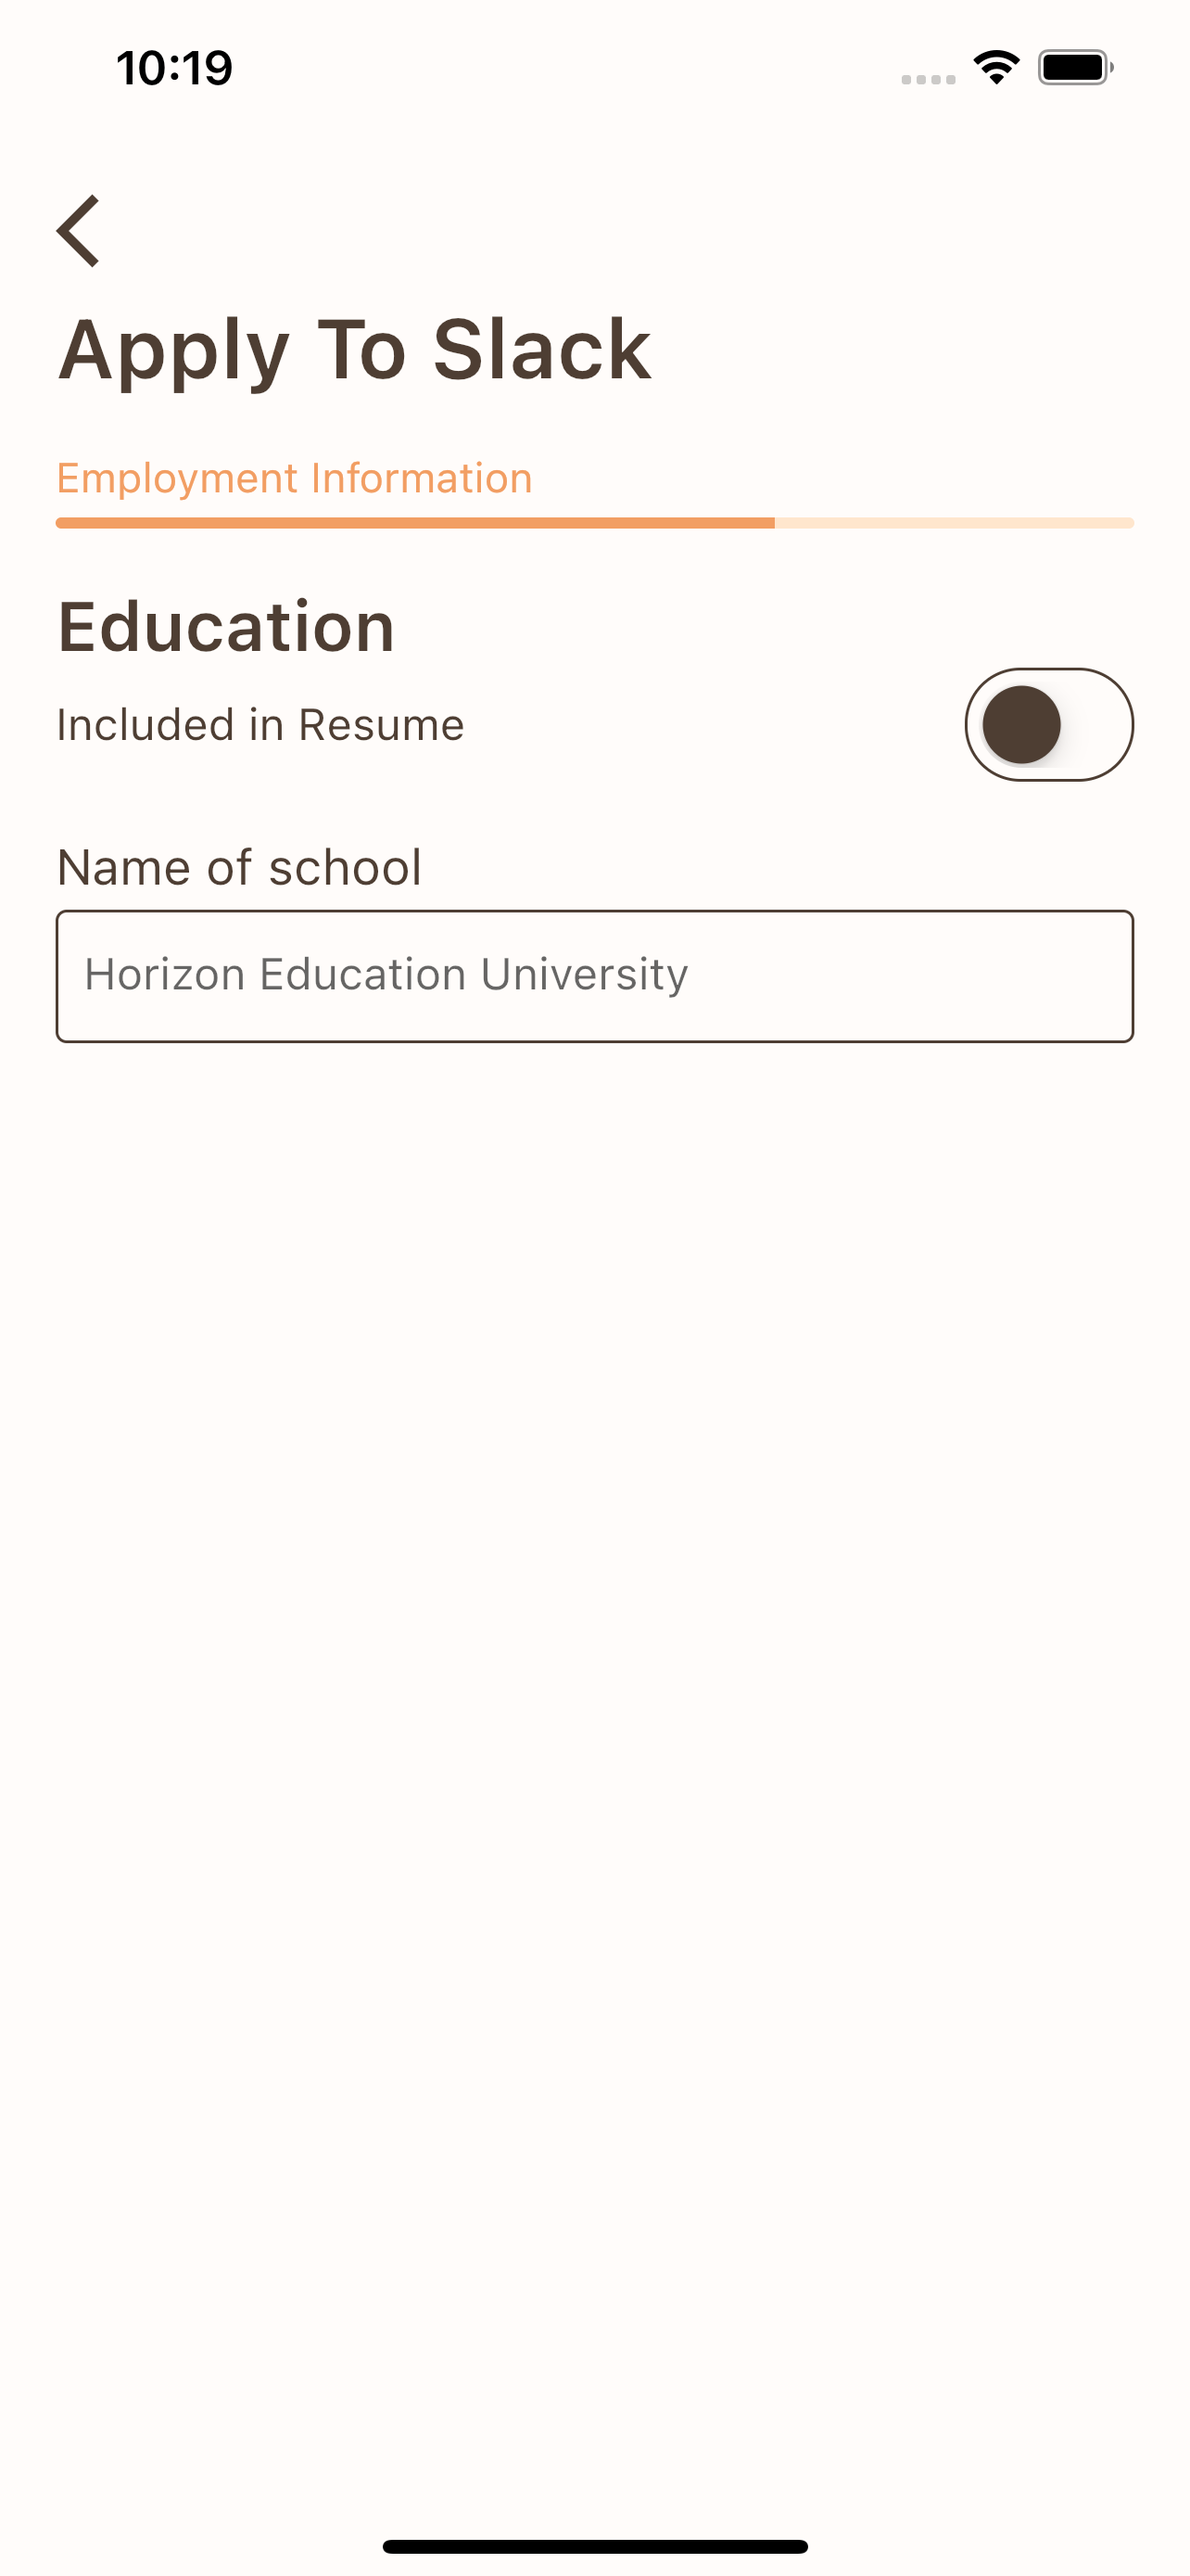
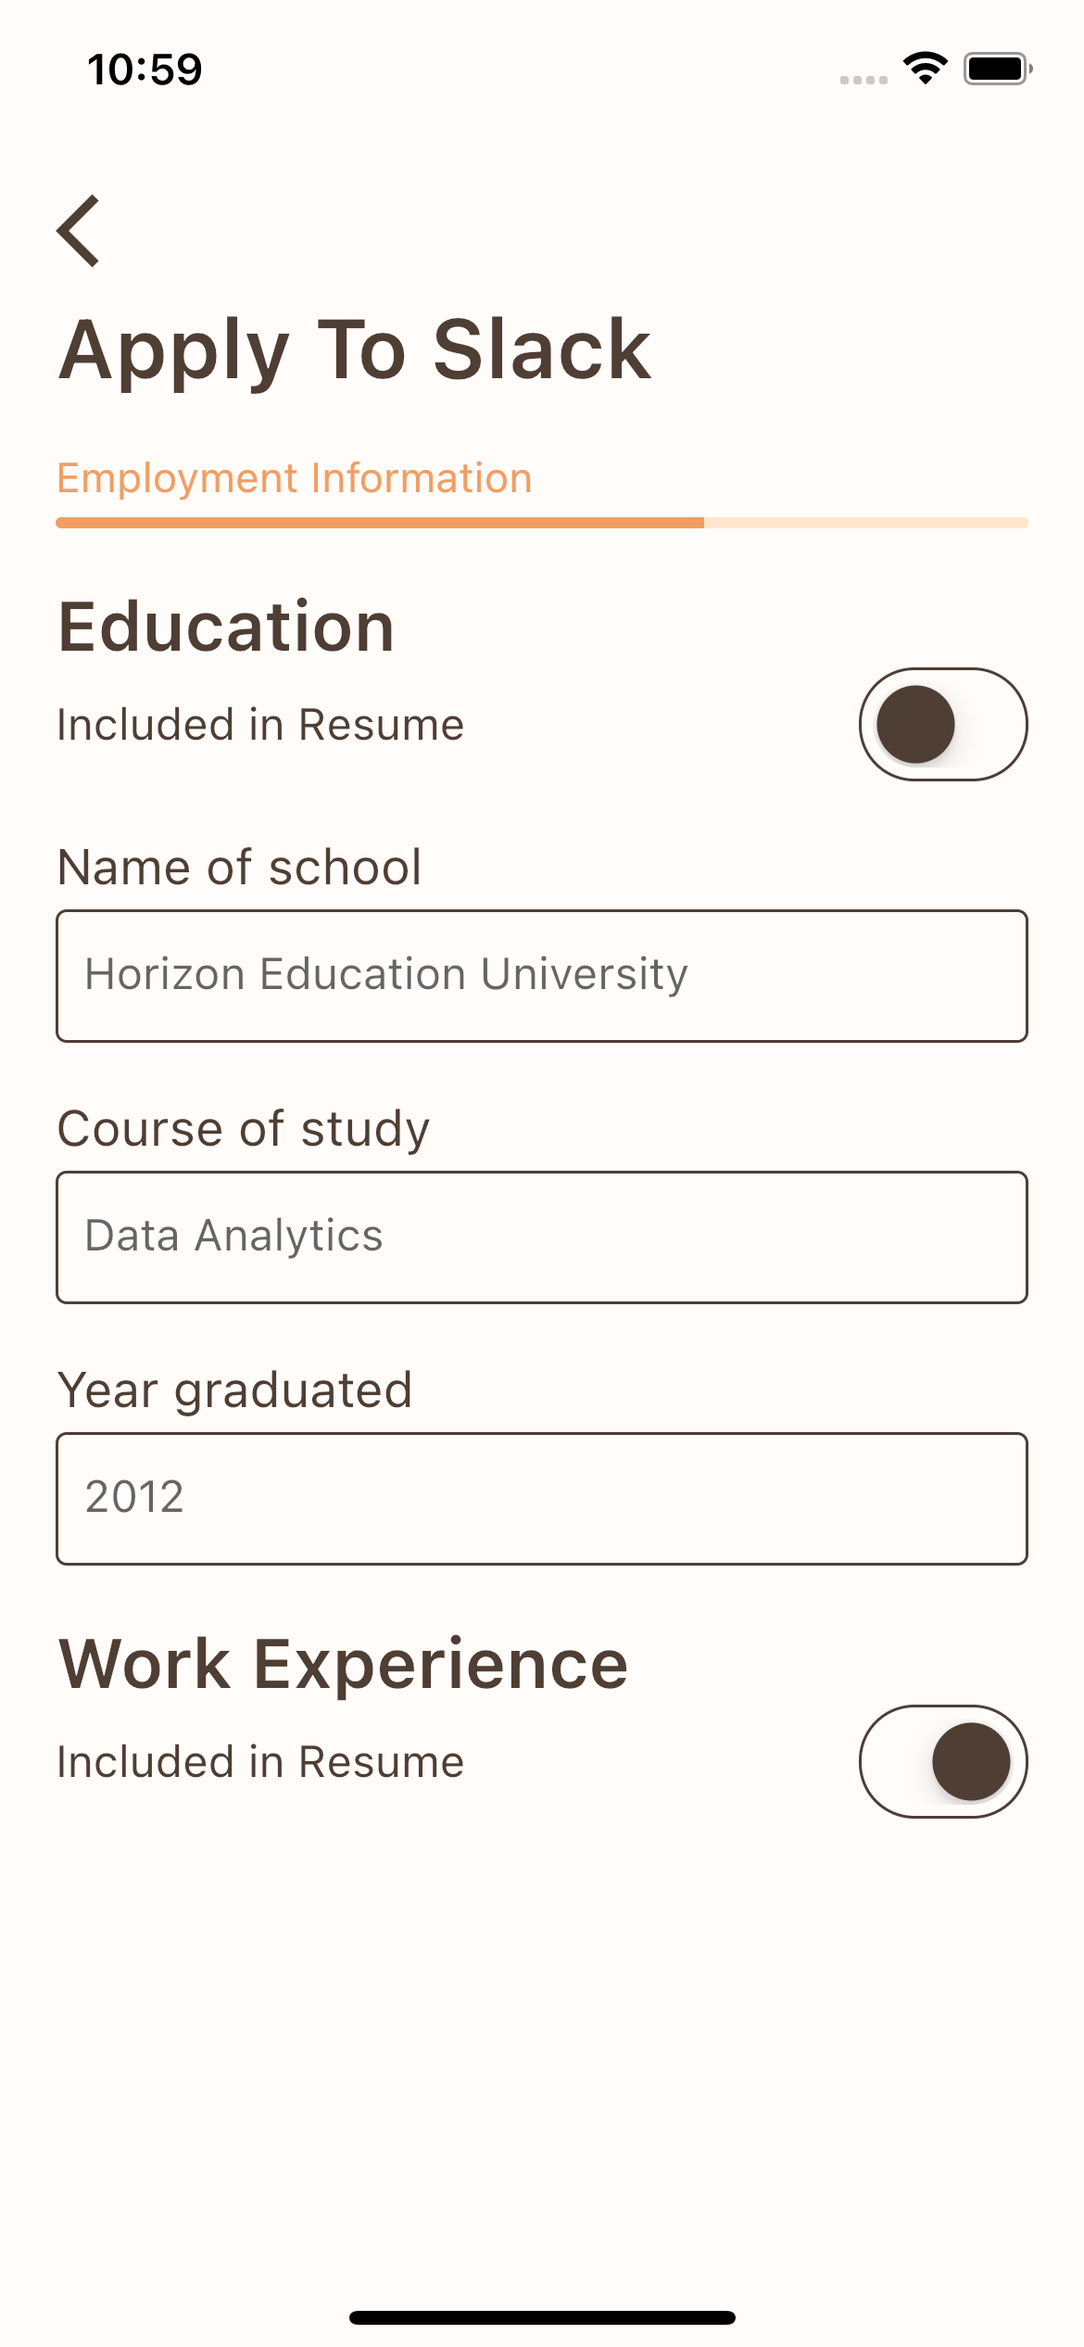
update UI

diff --git a/lib/screens/home/job/employment_info.dart b/lib/screens/home/job/employment_info.dart
@@ -29,45 +29,27 @@ class EmploymentInfo extends StatelessWidget {
                   applyToJobHeader(context, jobName, 2,
                       "Employment Information", Icons.arrow_back_ios),
                   const SizedBox(height: 20.0),
-                  const Text(
-                    "Education",
-                    style: TextStyle(
-                        fontSize: 25.0,
-                        fontWeight: FontWeight.w600,
-                        color: taupeColor),
-                  ),
-                  Row(
-                    mainAxisAlignment: MainAxisAlignment.spaceBetween,
-                    children: [
-                      const Text(
-                        "Included in Resume",
-                        style: TextStyle(
-                            fontSize: 16.0,
-                            fontWeight: FontWeight.w400,
-                            color: taupeColor),
-                      ),
-                      Container(
-                        padding: EdgeInsets.zero,
-                        decoration: BoxDecoration(
-                          border: Border.all(color: taupeColor),
-                          borderRadius: BorderRadius.circular(20.0),
-                        ),
-                        child: CupertinoSwitch(
-                          thumbColor: taupeColor,
-                          trackColor: soapStoneColor,
-                          value: false,
-                          activeColor: soapStoneColor,
-                          onChanged: (value) {},
-                        ),
-                      )
-                    ],
-                  ),
+                  headinInfo("Education", "Included in Resume", false),
                   const SizedBox(height: 20.0),
                   InputField(
                     onChanged: (nameOfSchool) {},
                     labelName: 'Name of school',
                     hintText: 'Horizon Education University',
-                  )
+                  ),
+                  const SizedBox(height: 10.0),
+                  InputField(
+                    onChanged: (course) {},
+                    labelName: 'Course of study',
+                    hintText: 'Data Analytics',
+                  ),
+                  const SizedBox(height: 10.0),
+                  InputField(
+                    onChanged: (course) {},
+                    labelName: 'Year graduated',
+                    hintText: '2012',
+                  ),
+                  const SizedBox(height: 10.0),
+                  headinInfo("Work Experience", "Included in Resume", true),
                 ],
               ),
             ),
@@ -77,3 +59,41 @@ class EmploymentInfo extends StatelessWidget {
     );
   }
 }
+
+Widget headinInfo(String heading, String subHeading, bool isToggleOn) => Column(
+      mainAxisAlignment: MainAxisAlignment.start,
+      crossAxisAlignment: CrossAxisAlignment.start,
+      children: [
+        Text(
+          heading,
+          style: const TextStyle(
+              fontSize: 25.0, fontWeight: FontWeight.w600, color: taupeColor),
+        ),
+        Row(
+          mainAxisAlignment: MainAxisAlignment.spaceBetween,
+          children: [
+            Text(
+              subHeading,
+              style: const TextStyle(
+                  fontSize: 16.0,
+                  fontWeight: FontWeight.w400,
+                  color: taupeColor),
+            ),
+            Container(
+              padding: EdgeInsets.zero,
+              decoration: BoxDecoration(
+                border: Border.all(color: taupeColor),
+                borderRadius: BorderRadius.circular(20.0),
+              ),
+              child: CupertinoSwitch(
+                thumbColor: taupeColor,
+                trackColor: soapStoneColor,
+                value: isToggleOn,
+                activeColor: soapStoneColor,
+                onChanged: (value) {},
+              ),
+            )
+          ],
+        ),
+      ],
+    );
